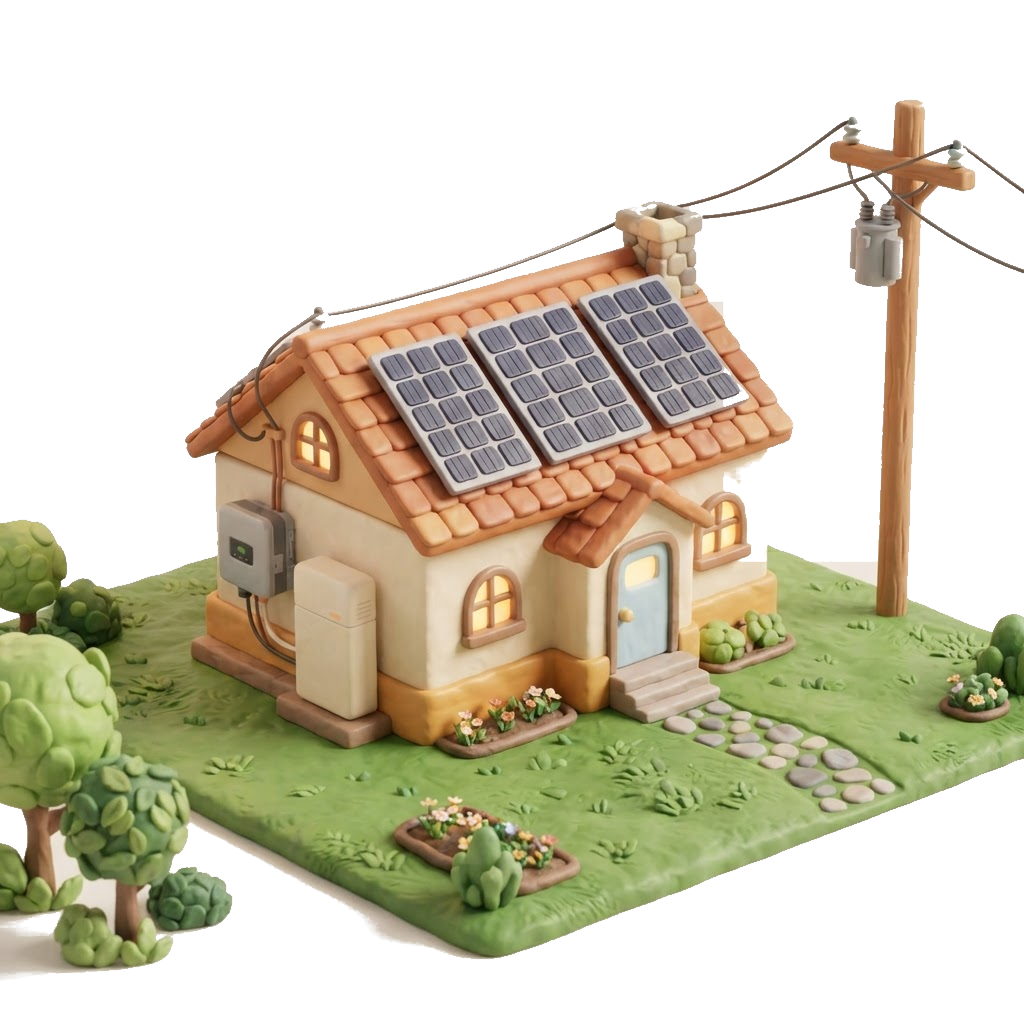
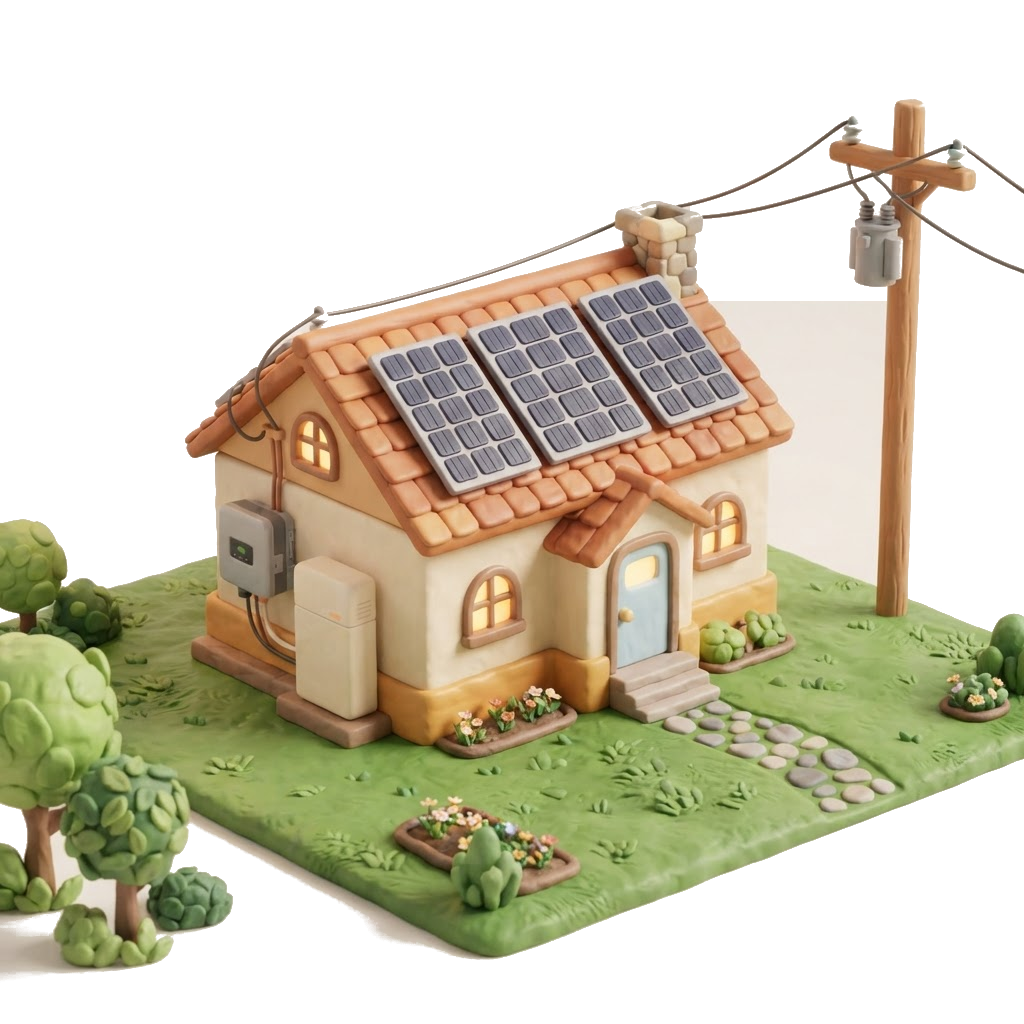
feat: refine celestial body positioning and visual effects in SolarExplorer

Changed region(s): [[0.6875, 0.2812, 0.875, 0.5625]]

diff --git a/components/solar/solar-explorer.tsx b/components/solar/solar-explorer.tsx
@@ -156,16 +156,9 @@ function skyForHour(hour: number) {
     : // Night window wraps 20 -> 24 -> 6
       (((h - 20 + 24) % 24) / 10)
   const bodyX = lerp(8, 92, p)
-  // Parabolic height: highest at midday / midnight (p=0.5). The arc ends dip
-  // well past the horizon so the body rises out of, and sets behind, the grass.
+  // Parabolic height: highest at midday / midnight (p=0.5).
   const arc = 1 - Math.pow((p - 0.5) * 2, 2) // 0 at ends, 1 at middle
-  const bodyY = lerp(94, 12, arc)
-
-  // Horizon line (percent of the stage) roughly where the grass begins. Below
-  // this the body is behind the grass; we fade it out over a short band so the
-  // sun/moon truly disappears when it dips beneath the ground.
-  const HORIZON = 66
-  const bodyOpacity = Math.max(0, Math.min(1, (HORIZON + 16 - bodyY) / 16))
+  const bodyY = lerp(78, 14, arc)
 
   const sunUp = h > 6.5 && h < 19.5
   const goldenLow = (h >= 6.5 && h < 8.5) || (h > 16.5 && h < 19.5)
@@ -195,7 +188,6 @@ function skyForHour(hour: number) {
     starOpacity,
     bodyX,
     bodyY,
-    bodyOpacity,
     bodyColor,
     bodyGlow,
     dioramaFilter,
@@ -367,16 +359,14 @@ export function SolarExplorer() {
           ))}
         </div>
 
-        {/* Celestial body — sun by day, moon by night — arcs across the sky and
-            fades out as it dips beneath the horizon (behind the grass). */}
+        {/* Celestial body — sun by day, moon by night — arcs across the sky */}
         <div
-          className="absolute transition-[top,left,opacity] duration-700"
+          className="absolute transition-colors duration-700"
           style={{
             left: `${sky.bodyX}%`,
             top: `${sky.bodyY}%`,
             width: "18%",
             height: "18%",
-            opacity: sky.bodyOpacity,
             transform: "translate(-50%, -50%)",
           }}
           aria-hidden="true"
